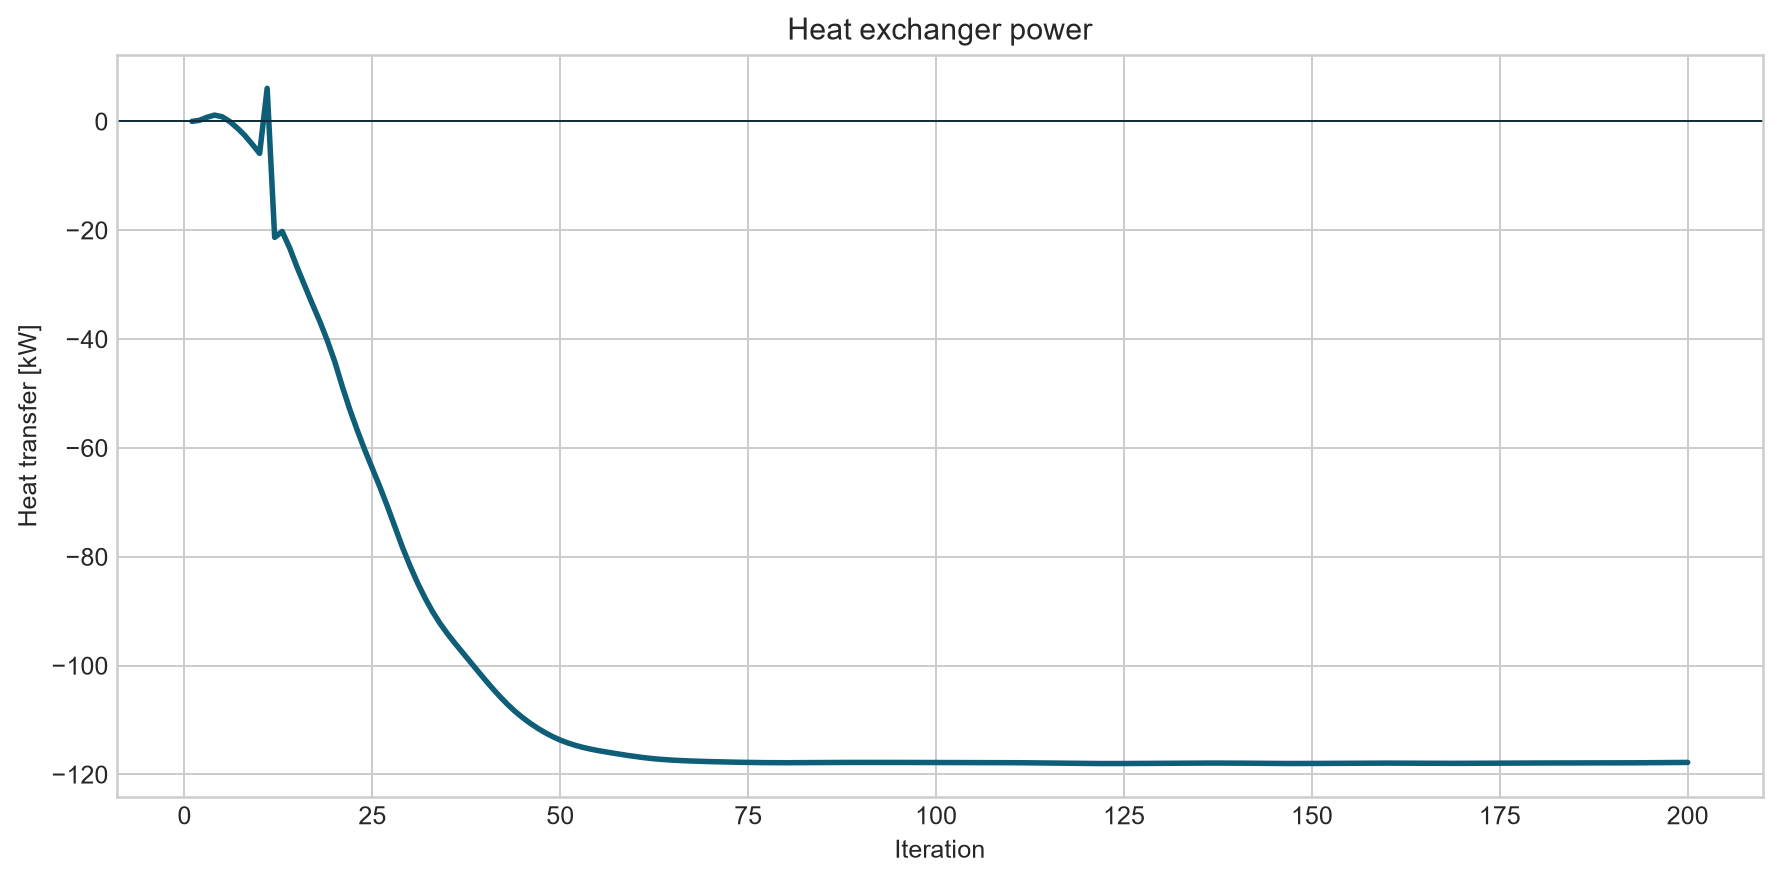
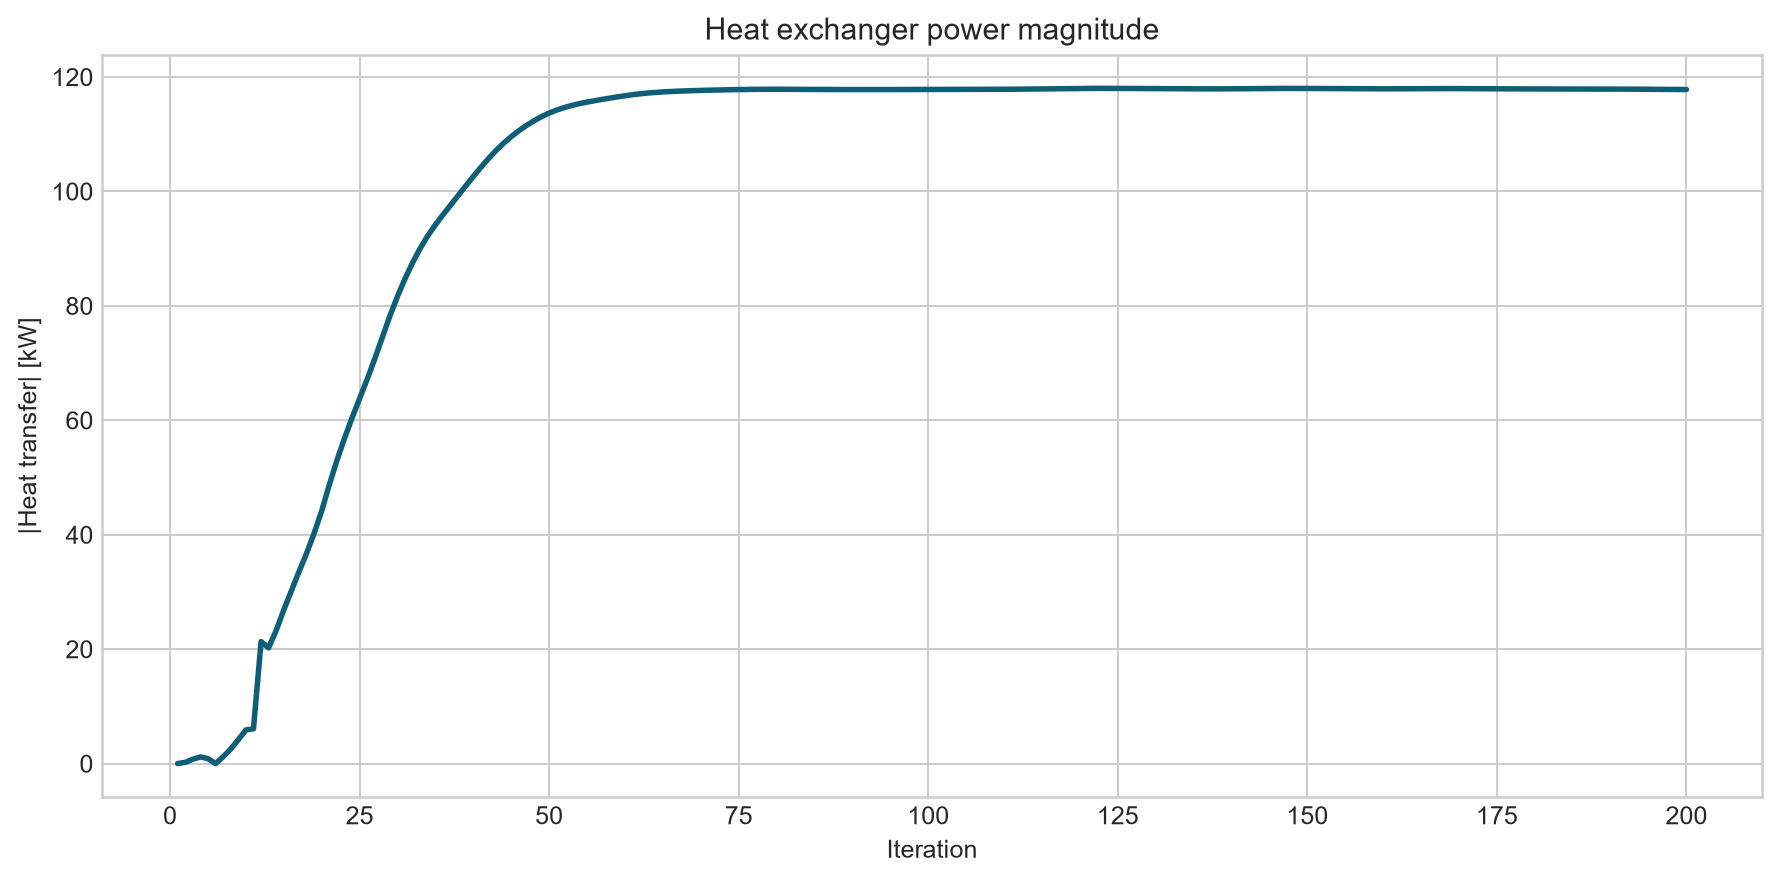
Show radiator heat transfer magnitude

diff --git a/radiator.html b/radiator.html
@@ -43,7 +43,7 @@
 
     <section id="results">
       <div class="heading"><p class="eyebrow">03 — Thermal response</p><h2>The monitored streams reveal the heat-transfer balance.</h2></div>
-      <div class="two-col results"><div><p>Monitor data from the converged simulation show the expected thermal behaviour: the air gains heat while the coolant is cooled across the radiator.</p><dl><div><dt>Air outlet</dt><dd>Approximately <strong>91.3 °C</strong> at the end of the run, rising from a 35 °C inlet condition.</dd></div><div><dt>Coolant outlet</dt><dd>Approximately <strong>70.1 °C</strong>, reduced from the 107 °C inlet condition.</dd></div><div><dt>Heat-exchanger monitor</dt><dd>Approximately <strong>−117.8 kW</strong>; the negative sign follows the monitor convention for heat removed from the coolant stream.</dd></div></dl></div><figure><img src="assets/car_radiator/screen_coolant_temp.png" alt="Coolant temperature monitor history" /><figcaption>Coolant outlet-temperature monitor throughout the simulation.</figcaption></figure></div>
+      <div class="two-col results"><div><p>Monitor data from the converged simulation show the expected thermal behaviour: the air gains heat while the coolant is cooled across the radiator.</p><dl><div><dt>Air outlet</dt><dd>Approximately <strong>91.3 °C</strong> at the end of the run, rising from a 35 °C inlet condition.</dd></div><div><dt>Coolant outlet</dt><dd>Approximately <strong>70.1 °C</strong>, reduced from the 107 °C inlet condition.</dd></div><div><dt>Heat-exchanger monitor</dt><dd>A heat-transfer magnitude of approximately <strong>117.8 kW</strong>. The absolute value is displayed to make the cooling capacity easier to interpret.</dd></div></dl></div><figure><img src="assets/car_radiator/screen_coolant_temp.png" alt="Coolant temperature monitor history" /><figcaption>Coolant outlet-temperature monitor throughout the simulation.</figcaption></figure></div>
       <div class="result-figure"><figure><img src="assets/car_radiator/screen_air_temp.png" alt="Air temperature monitor history" /><figcaption>Air outlet-temperature monitor throughout the simulation.</figcaption></figure></div>
       <div class="plot-gallery"><figure><img src="assets/car_radiator/heat_exchanger_power.png" alt="Heat-exchanger power history generated from the simulation monitor data" /><figcaption>Heat-exchanger power, generated from the exported monitor data.</figcaption></figure><figure><img src="assets/car_radiator/outlet_temperatures_C.png" alt="Air and coolant outlet temperature history in degrees Celsius" /><figcaption>Outlet temperatures in °C, generated from the exported monitor data.</figcaption></figure></div>
     </section>
